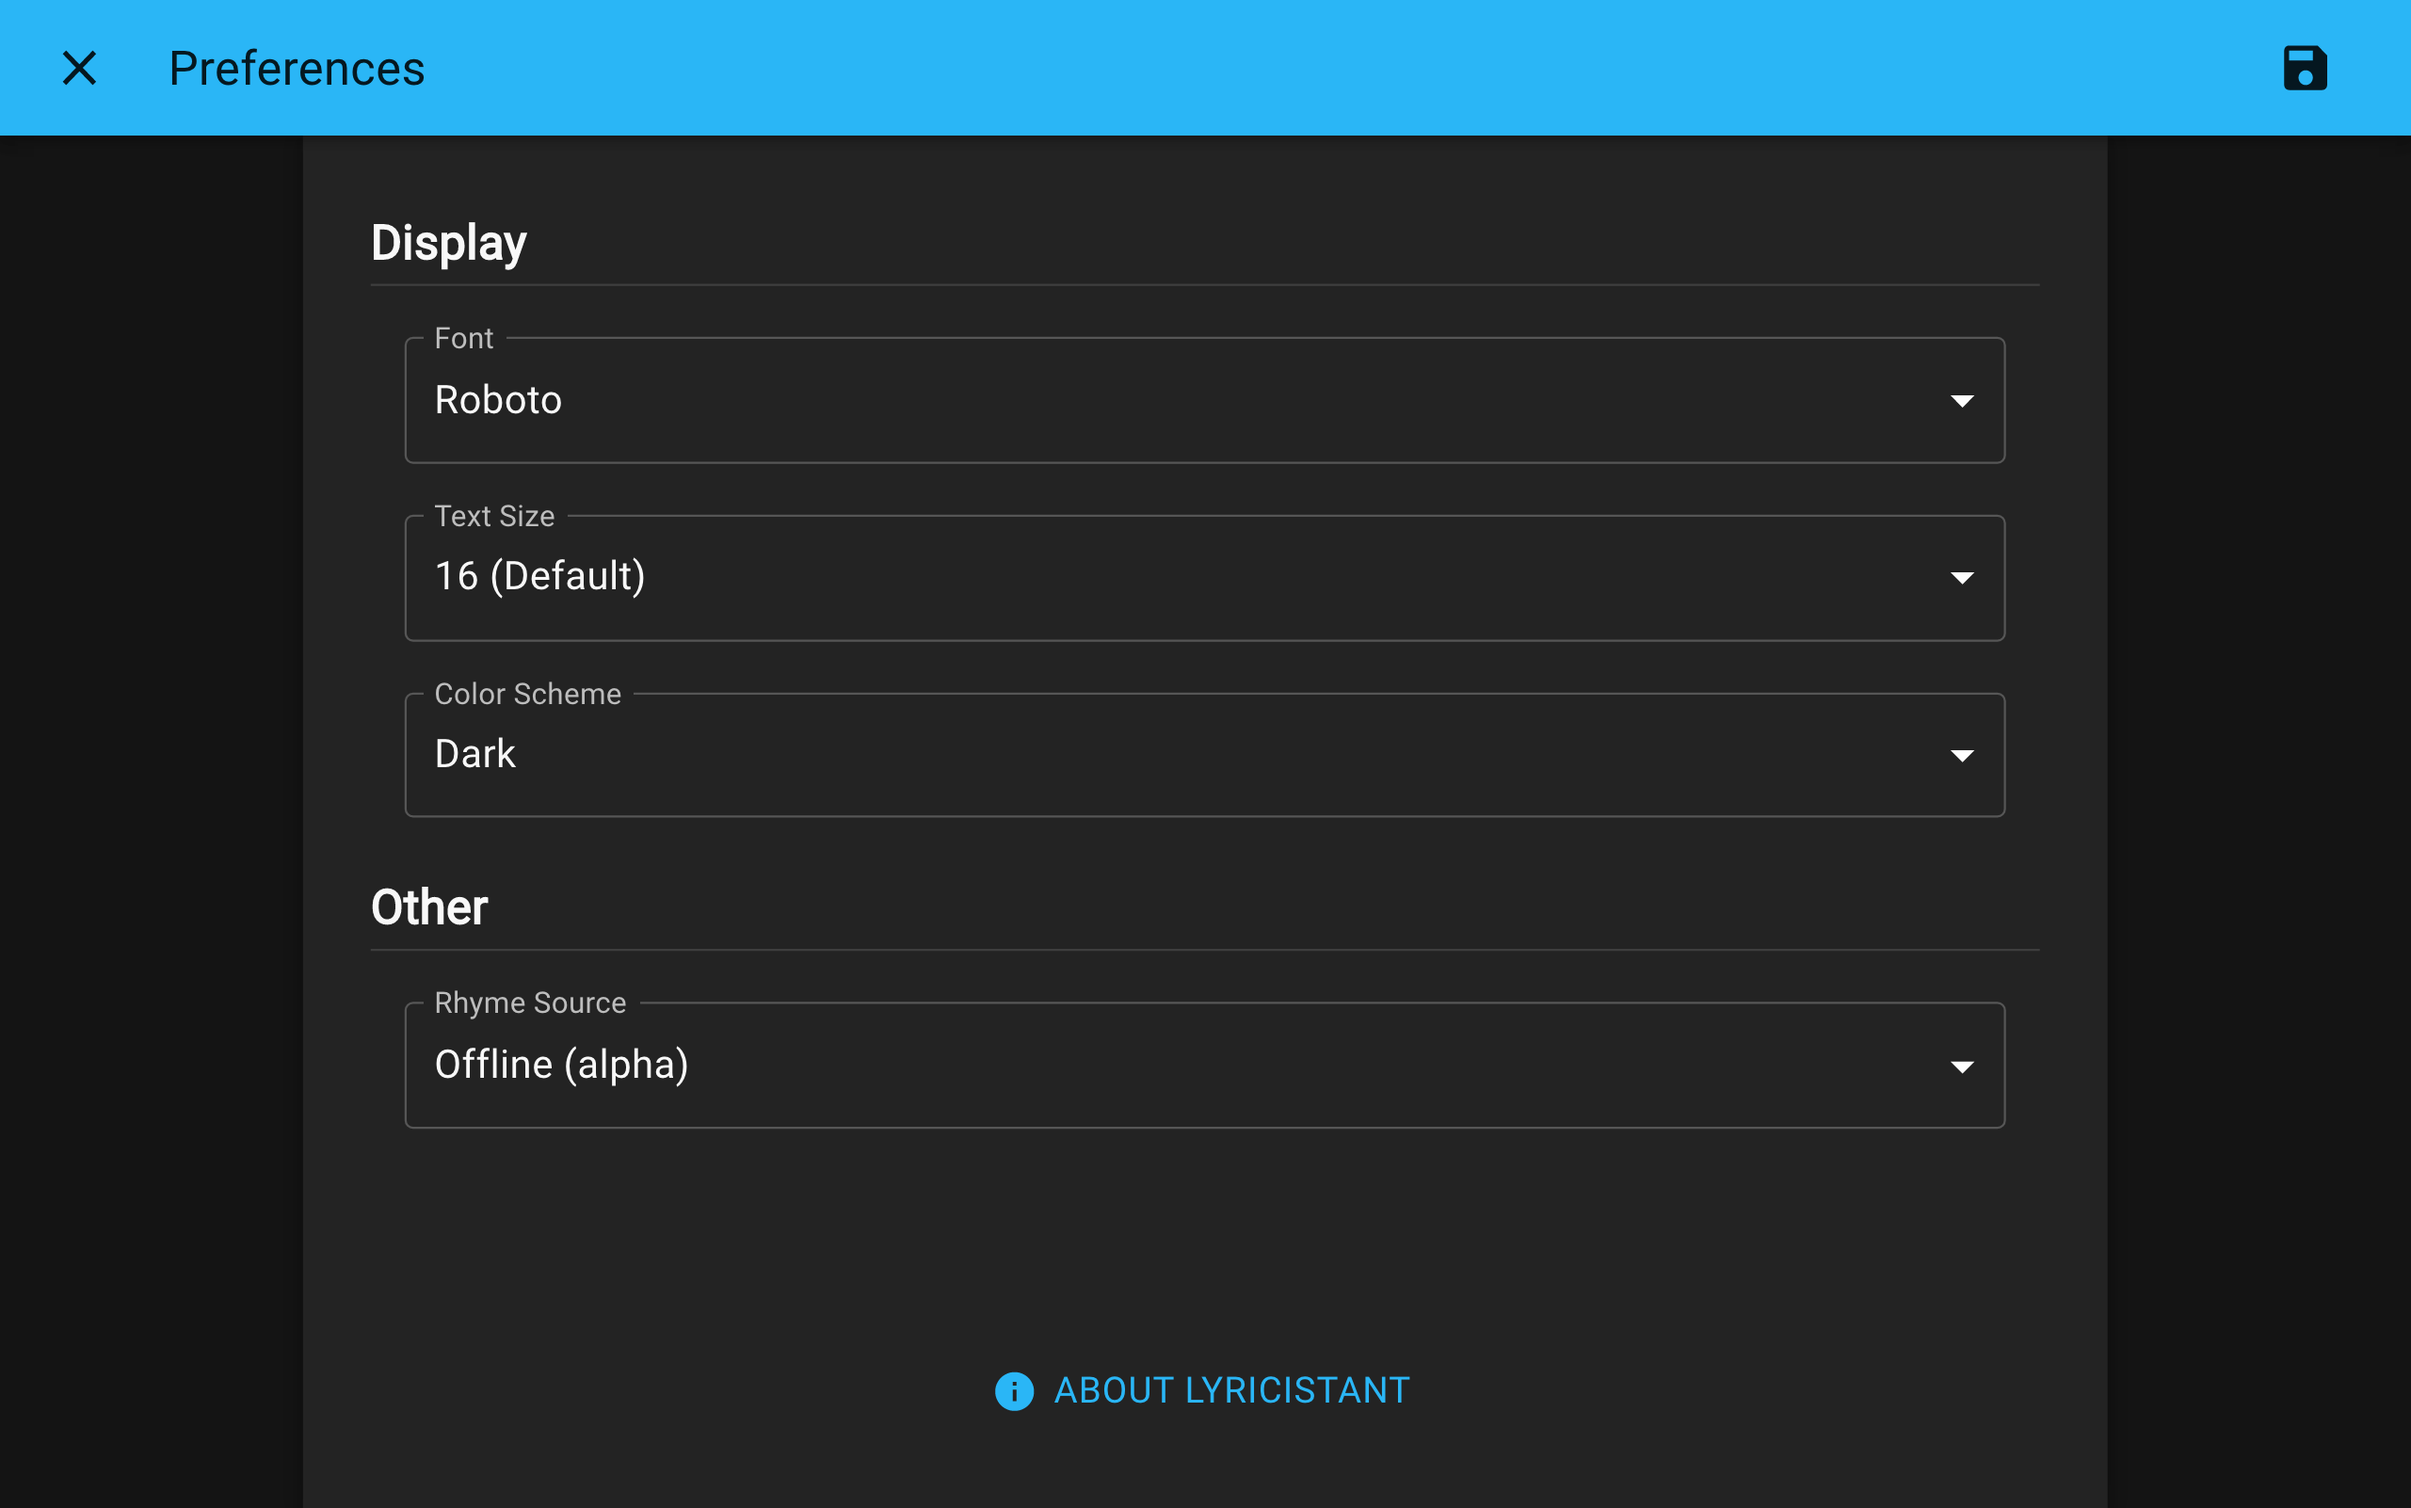
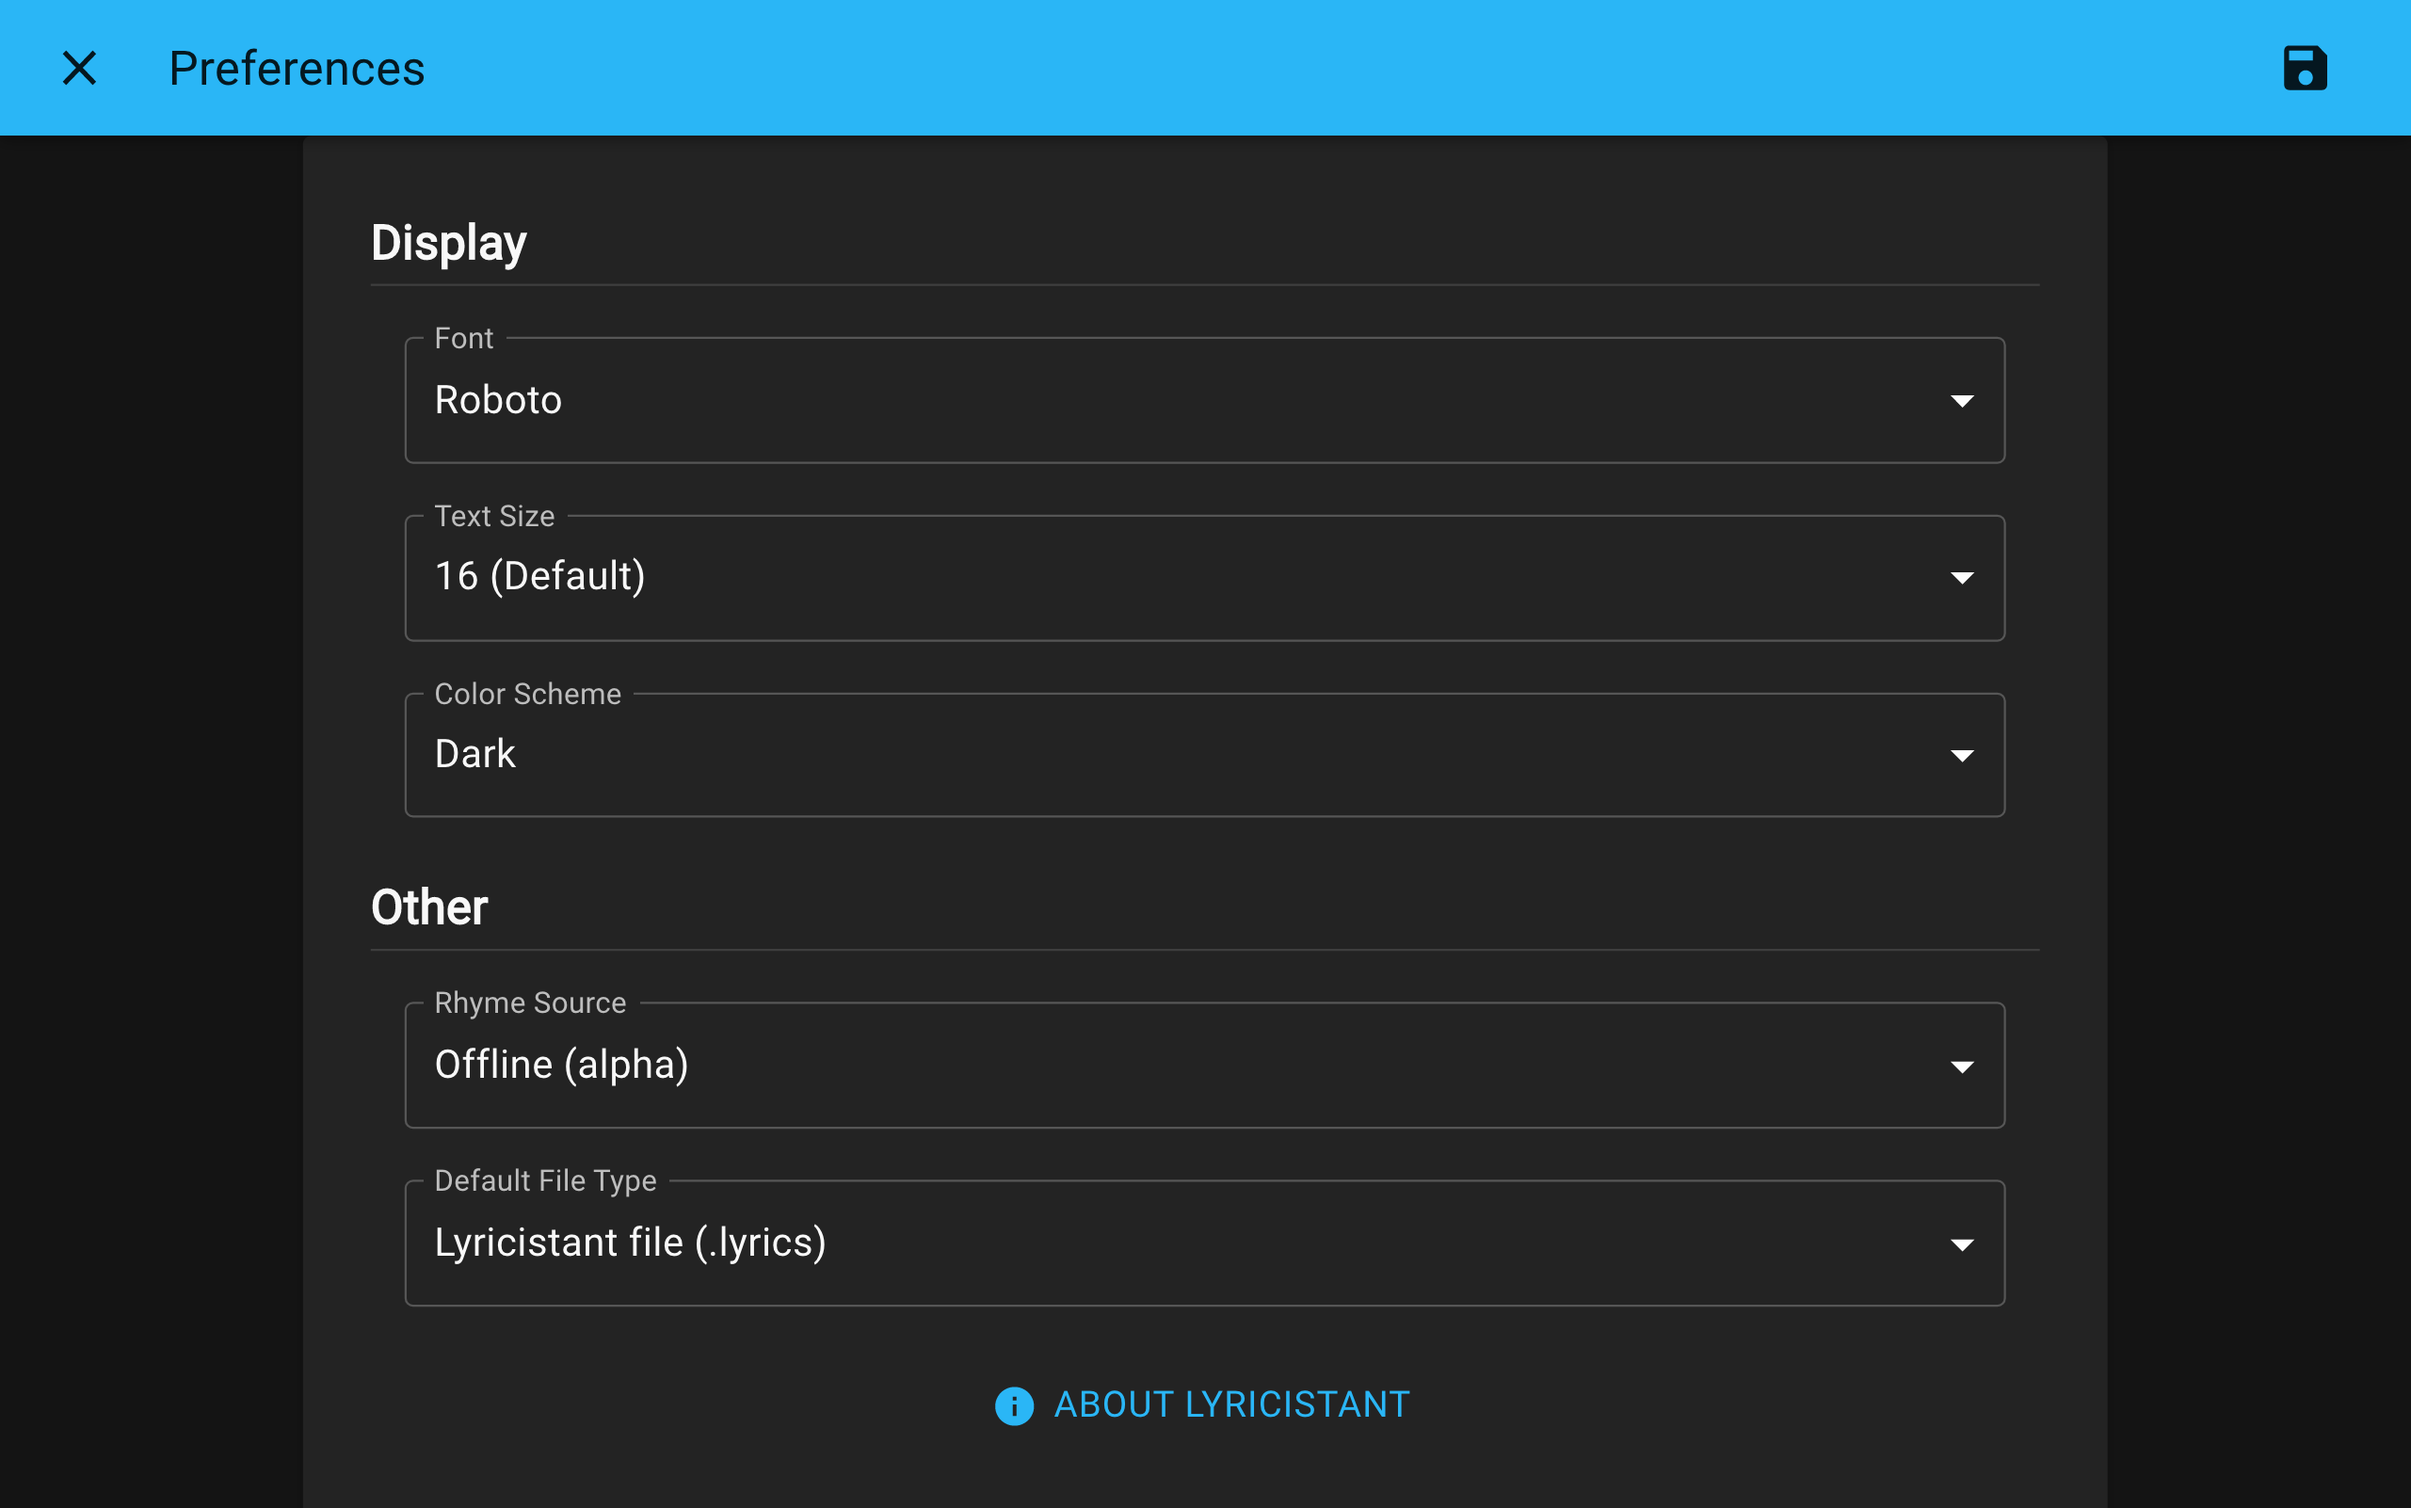
1.3.14

Changed region(s): [[0.4061, 0.9051, 0.5935, 0.9675], [0.1874, 0.7803, 0.3436, 0.8427]]

diff --git a/CHANGELOG.md b/CHANGELOG.md
@@ -1,3 +1,19 @@
+## [1.3.14](https://github.com/wardellbagby/lyricistant/compare/v1.3.13...v1.3.14) (2022-03-07)
+
+
+### Bug Fixes
+
+* **electron:** correctly load font on app start ([cd1c96f](https://github.com/wardellbagby/lyricistant/commit/cd1c96f481fea76d9e3f1e8810f44223286d3b3f))
+* force preferences to refresh from platform when opened ([3a8aa2e](https://github.com/wardellbagby/lyricistant/commit/3a8aa2e6b13c5ac13ae2bfeecdccac2bacc9500c))
+* **preferences:** don't clip preferences background on small screens ([1940ef0](https://github.com/wardellbagby/lyricistant/commit/1940ef010b03f04950317305351902b4b1664b4f))
+
+
+### Features
+
+* add ability to select file type to save lyrics as ([16d11be](https://github.com/wardellbagby/lyricistant/commit/16d11bef41998e4b3d571adffabd2ca8d9a01f41))
+
+
+
 ## [1.3.13](https://github.com/wardellbagby/lyricistant/compare/v1.3.12...v1.3.13) (2022-01-30)
 
 
